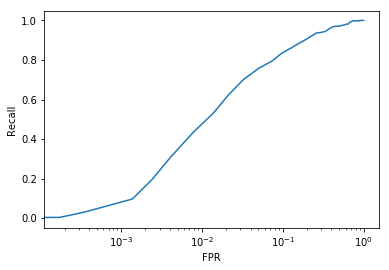
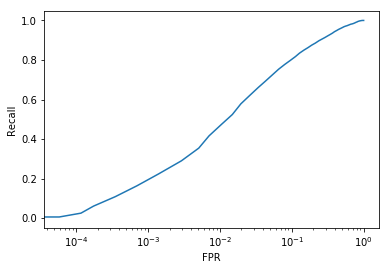
Added correct roc curve for siamese data2

diff --git a/SiameseFingerprint/siamese_nn_eval.py b/SiameseFingerprint/siamese_nn_eval.py
@@ -271,14 +271,14 @@ def main(argv):
     metrics_path = argv[2]
     gpu_device_name = argv[-1] 
    
-#    # if file containing evaluation metrics already exists use this data directly
-#    if os.path.exists(metrics_path + ".txt"):
-#        # get evaluation metrics for varying thresholds
-#        fpr_vals, fnr_vals, recall_vals, acc_vals = util.get_evaluation_metrics_vals(metrics_path + ".txt")
-#
-#        # plots of evaluation metrics
-#        util.plot_evaluation_metrics(thresholds, fpr_vals, fnr_vals, recall_vals, acc_vals)
-#        return
+    # if file containing evaluation metrics already exists use this data directly
+    if os.path.exists(metrics_path + ".txt"):
+        # get evaluation metrics for varying thresholds
+        fpr_vals, fnr_vals, recall_vals, acc_vals = util.get_evaluation_metrics_vals(metrics_path + ".txt")
+
+        # plots of evaluation metrics
+        util.plot_evaluation_metrics(thresholds, fpr_vals, fnr_vals, recall_vals, acc_vals)
+        return
     
     # load generator
     with open(data_path + "generator_data_small_rotdiff5_transdiff10_new.pk1", "rb") as input:

diff --git a/SiameseFingerprint/inception_nn_eval.py b/SiameseFingerprint/inception_nn_eval.py
@@ -205,9 +205,9 @@ def main(argv):
     """
     
     # Set parameters for evaluation
-    thresholds = np.linspace(0, 0.8, num=100)
-    batch_size = 20
-    eval_itr = 28
+    thresholds = np.linspace(0, 1.75, num=100)
+    batch_size = 100
+    eval_itr = 57
     
     output_dir = argv[0]# directories where the models are saved
     data_path =  argv[1]
@@ -224,7 +224,7 @@ def main(argv):
         return
     
     # Load generator
-    with open(data_path + "generator_data_small_rotdiff5_transdiff10_new.pk1", "rb") as input:
+    with open(data_path + "generator_data_small_rotdiff5_transdiff30_new.pk1", "rb") as input:
         generator = pickle.load(input)
         
         evaluate_inception_network(generator, batch_size, thresholds, eval_itr, output_dir, metrics_path, gpu_device_name)
